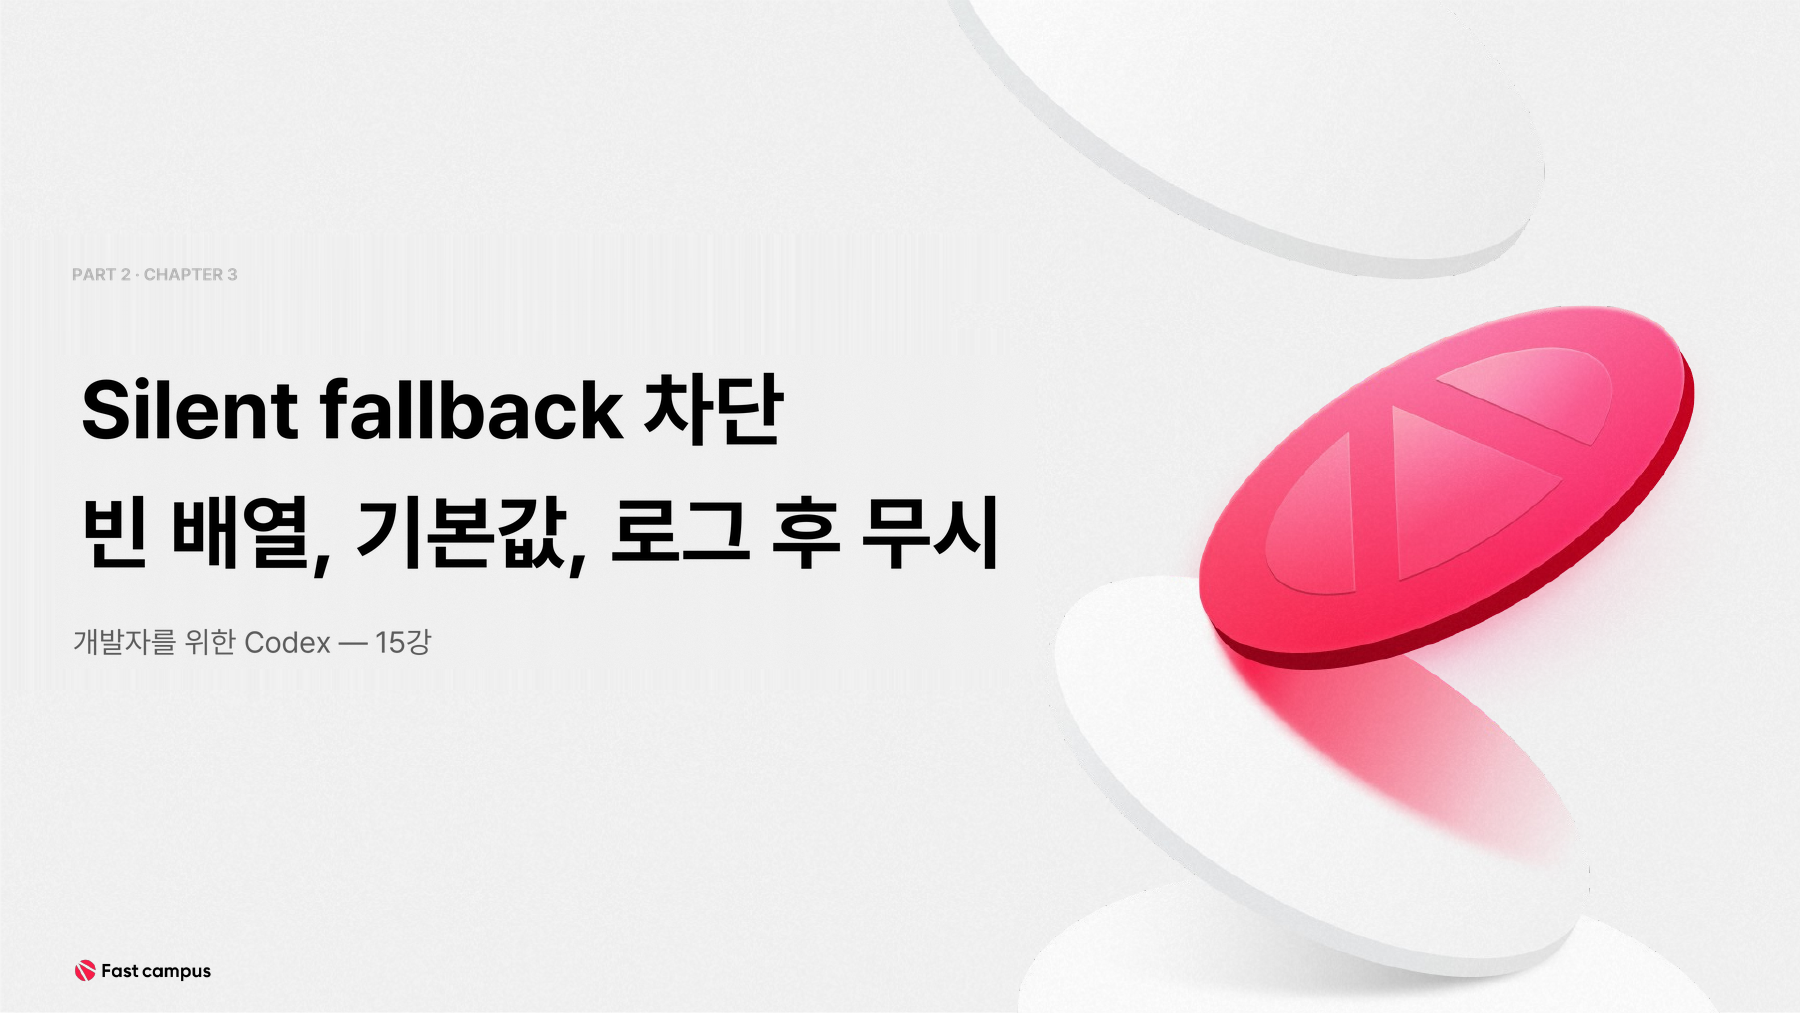
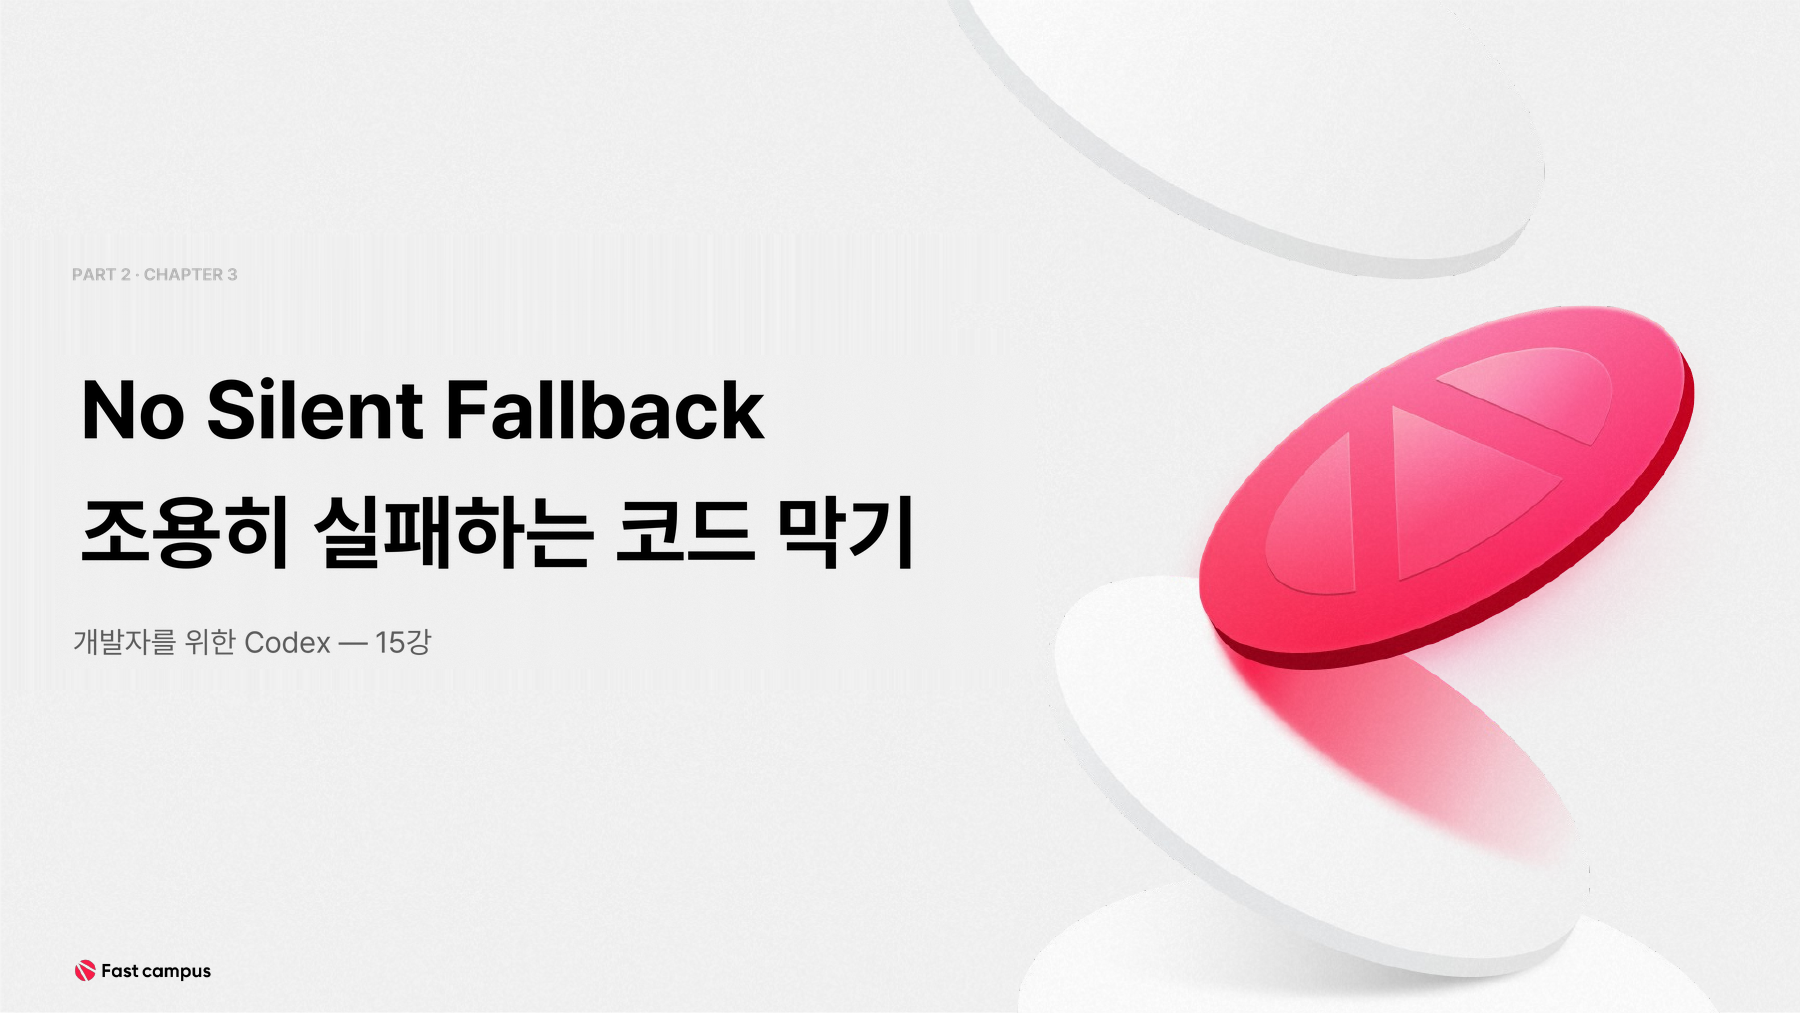
fix(15강): 표지 제목을 커리큘럼 제목으로
표지가 커리큘럼 제목 「No Silent Fallback: 조용히 실패하는 코드 막기」가
아니라 임의로 지은 「Silent fallback 차단」과, 제목이 아닌 개요 문장의
세 패턴을 쓰고 있었다. 13강 표지와 같은 규칙(콜론에서 나눔)으로 바로잡았다.

- 표지 PNG 제목·부제, 슬라이드 01 킥커·제목·부제·h3, 문서 헤더, gen2 title
- 슬라이드 01 제작 명세의 「표지 PNG가 아직 없다」는 옛 설명 삭제
- 0강·1강은 변경 없음

Changed region(s): [[0.0311, 0.4896, 0.5597, 0.5814], [0.0311, 0.3672, 0.4353, 0.459]]

diff --git a/ref/lecture15-slide-plan-v1.html b/ref/lecture15-slide-plan-v1.html
@@ -1,5 +1,5 @@
 <!DOCTYPE html>
-<html lang="ko"><head><meta charset="utf-8"><title>15강 Silent fallback 차단 — 슬라이드 구성안 v1.0</title>
+<html lang="ko"><head><meta charset="utf-8"><title>15강 No Silent Fallback — 슬라이드 구성안 v1.0</title>
 <style>
   :root{
     --ink:#111114; --sub:#6b6b73; --line:#e6e6e9;
@@ -137,7 +137,7 @@
 </head><body><div class="wrap">
   <div class="doc-head">
     <span class="tag">PLAN v1.0</span>
-    <h1>15강 — Silent fallback 차단</h1>
+    <h1>15강 — No Silent Fallback</h1>
     <p class="sub">이론 + 실습 40분 · 4클립 · 슬라이드 19장 · v1.0 (Lab 15 README E1~E4에 1:1로 붙인 실습 큐 네 장 + 이론 앵커 열네 장 + 표지)</p>
     <div class="meta"><span>정렬: 커리큘럼 정본 15강 · Lab 15 E1~E4</span><span>산출물: <b>docs/retry-stop-matrix.md · docs/checklists/failure-handling.md</b> + 두 fallback 제거 diff — 12강 이후 <code>src</code>가 처음 바뀌는 강의</span><span>입력: 13강 19의 15강 예고 · Lab 15 README E1 · <code>docs/payment-policy.md</code></span><span>사상 축: <b>오류가 외부에 정상 응답처럼 보이면 테스트와 운영 모두 실패를 알 수 없다</b></span></div>
   </div>
@@ -150,22 +150,22 @@
   <!-- 01 표지 -->
   <section class="slide">
     <div class="s-top"><span class="s-num">01</span><span class="chip op">표지</span><span class="chip cl">클립 1</span><span class="chip lay">텍스트 표지</span><span class="s-time">30초</span></div>
-    <h3>Silent fallback 차단</h3>
+    <h3>No Silent Fallback</h3>
     <div class="s-body">
       <div class="wf">
         <div class="mk">
-          <div class="kick" style="left:3.43%; top:12.18%;">Chapter 3 · 15강 · Silent fallback 차단</div>
-          <div class="h cover" style="left:3.43%; top:30%;">Silent fallback 차단</div>
-          <div class="t mid" style="left:3.43%; top:57%; color:#5B5B5B;">빈 배열 · 기본값 · 로그 후 무시</div>
+          <div class="kick" style="left:3.43%; top:12.18%;">Chapter 3 · 15강 · No Silent Fallback</div>
+          <div class="h cover" style="left:3.43%; top:30%;">No Silent Fallback</div>
+          <div class="t mid" style="left:3.43%; top:57%; color:#5B5B5B;">조용히 실패하는 코드 막기</div>
           <div class="t mut" style="left:3.43%; top:65%;">개발자를 위한 Codex — 15강 · 이론 + 실습 · 약 40분</div>
           <div class="mark"></div>
         </div>
-        <div class="cap">텍스트 표지 — 헤드라인 「Silent fallback 차단」, 부제 「빈 배열 · 기본값 · 로그 후 무시」. Chapter 3 네 번째 강의</div>
-        <div class="wf-spec"><b>제작 명세:</b> 시간 배분 30초. 템플릿 유형: 01 표지. 13강 표지와 같은 좌표(kicker 12.18% · 커버 30% · 부제 57% · 메타 65%). 표지 PNG(<code>assets/cover15.png</code>)가 아직 없어 <code>gen2.py</code>의 cover는 None이고, 이 텍스트 표지가 그대로 01로 렌더된다. 헤드라인 「Silent fallback 차단」 · 부제 「빈 배열 · 기본값 · 로그 후 무시」 · kicker 「Chapter 3 · 15강 · Silent fallback 차단」은 정확히 이 문구로 둔다. 레드 없음.</div>
+        <div class="cap">텍스트 표지 — 헤드라인 「No Silent Fallback」, 부제 「조용히 실패하는 코드 막기」. Chapter 3 네 번째 강의</div>
+        <div class="wf-spec"><b>제작 명세:</b> 시간 배분 30초. 템플릿 유형: 01 표지. 13강 표지와 같은 좌표(kicker 12.18% · 커버 30% · 부제 57% · 메타 65%). 제목은 커리큘럼 제목 「No Silent Fallback: 조용히 실패하는 코드 막기」를 콜론에서 나눈 것이다(13강 「환각 차단: 없는 함수, 틀린 import…」 → 「환각 차단」 / 「없는 함수, 틀린 import」와 같은 규칙). <code>gen2.py</code>의 cover는 <code>assets/cover15.png</code>(13강 표지에서 제목·부제만 교체)라서 실제 01은 PNG로 렌더되고, 이 텍스트 표지는 구조와 문구의 정본으로만 둔다. 헤드라인 「No Silent Fallback」 · 부제 「조용히 실패하는 코드 막기」 · kicker 「Chapter 3 · 15강 · No Silent Fallback」은 정확히 이 문구로 둔다. 레드 없음.</div>
       </div>
       <div class="txt">
         <h4>슬라이드에 넣을 텍스트</h4>
-        <div class="copy"><div class="t">Silent fallback 차단</div><div class="st">빈 배열 · 기본값 · 로그 후 무시</div><div class="small">kicker: Chapter 3 · 15강 · Silent fallback 차단 / meta: 개발자를 위한 Codex — 15강 · 이론 + 실습 · 약 40분</div></div>
+        <div class="copy"><div class="t">No Silent Fallback</div><div class="st">조용히 실패하는 코드 막기</div><div class="small">kicker: Chapter 3 · 15강 · No Silent Fallback / meta: 개발자를 위한 Codex — 15강 · 이론 + 실습 · 약 40분</div></div>
         <h4>연출 메모</h4>
         <div class="memo">표지 위에서 한 문장만 — 「이번 강의는 통과했는데도 실패를 알 수 없는 경우를 봅니다」. 지난 강의 리캡은 02에서 한다.</div>
       </div>

diff --git a/lec15.html b/lec15.html
@@ -3,7 +3,7 @@
 <head>
 <meta charset="utf-8">
 <meta name="viewport" content="width=device-width, initial-scale=1">
-<title>15강 Silent fallback 차단 — 개발자를 위한 Codex</title>
+<title>15강 No Silent Fallback — 개발자를 위한 Codex</title>
 <link rel="stylesheet" href="https://cdn.jsdelivr.net/gh/orioncactus/pretendard@v1.3.9/dist/web/static/pretendard.min.css">
 <style>
   *{margin:0; padding:0; box-sizing:border-box;}
@@ -504,7 +504,7 @@
 <div class="edge" style="left:0" onclick="go(-1)"></div>
 <div class="edge" style="right:0" onclick="go(1)"></div>
 <a class="hud" id="home" href="index.html">목차</a>
-<div class="hud" id="ttl">15강 · Silent fallback 차단</div>
+<div class="hud" id="ttl">15강 · No Silent Fallback</div>
 <div class="hud" id="ctr" onclick="toggleToc()" title="클릭: 슬라이드 목록">1 / 19</div>
 <div id="toc"><div class="list" id="tocList"></div></div>
 <script>

diff --git a/index.html b/index.html
@@ -118,7 +118,7 @@
       <div class="thumb"><img src="assets/cover15.png" alt="15강 표지" loading="lazy"></div>
       <div class="meta">
         <div class="num">15강 · 약 40분 · 19장</div>
-        <div class="title">Silent fallback 차단</div>
+        <div class="title">No Silent Fallback</div>
         <div class="sub">silent fallback · 오류 처리 경계 · retry/stop 기준</div>
       </div>
     </a>

diff --git a/gen2.py b/gen2.py
@@ -34,7 +34,7 @@ PLANS = [
     dict(id='lec13', num='13강', title='환각 차단',
          sub='없는 함수 · 틀린 import · 검증 계층 · hallucination guard', dur='약 40분',
          src=os.path.join(ROOT, 'ref/lecture13-slide-plan-v1.html'), cover='assets/cover13.png'),
-    dict(id='lec15', num='15강', title='Silent fallback 차단',
+    dict(id='lec15', num='15강', title='No Silent Fallback',
          sub='silent fallback · 오류 처리 경계 · retry/stop 기준', dur='약 40분',
          src=os.path.join(ROOT, 'ref/lecture15-slide-plan-v1.html'), cover='assets/cover15.png'),
 ]
